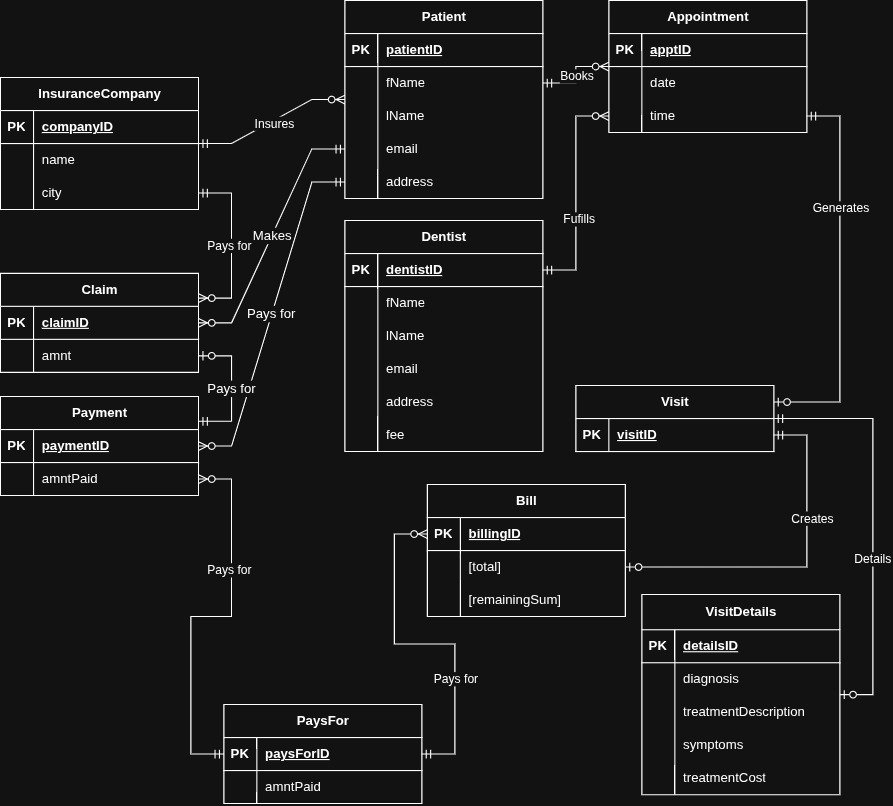
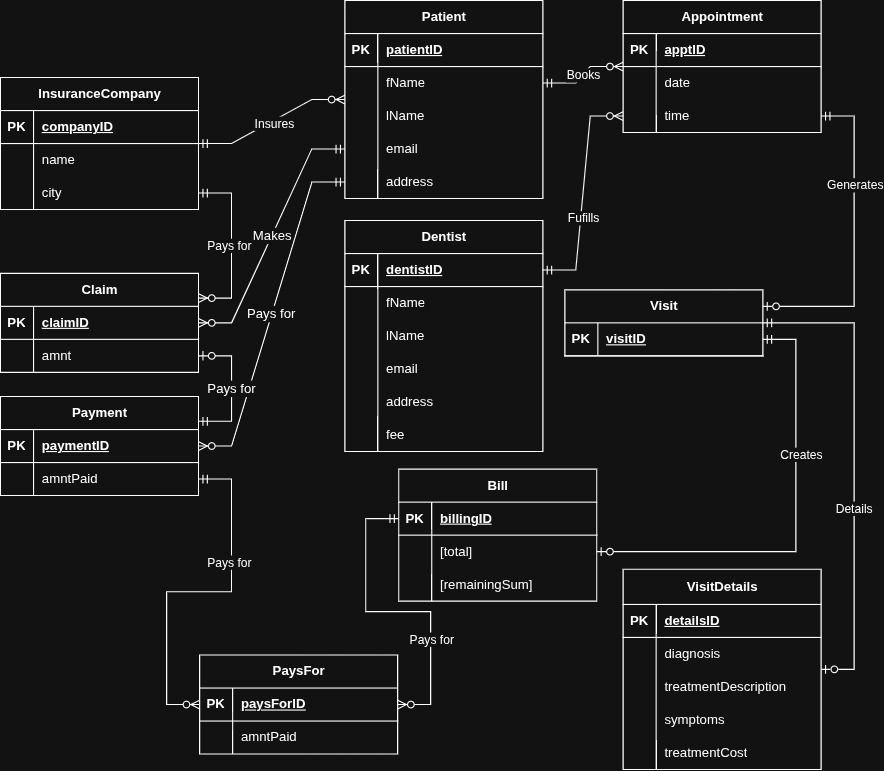
normalization detailed + made normalized er diagram

Changed region(s): [[0.0, 0.0, 1.0, 1.0], [0.733, 0.4669, 0.7941, 0.5292], [0.733, 0.3735, 0.7941, 0.4047]]

diff --git a/Deliverable2/Report.md b/Deliverable2/Report.md
@@ -16,7 +16,23 @@
 ![Fig 2. Revised Logical Schema](../Deliverable1/Revision/lsRevision.jpg) TODO add image when received from Kiavash
 
 ## Normalization Details
-1. 
+### Current Normalization Analysis
+1. Already in 1NF
+   1. All records are unqiue
+   2. All columns contain only atomic values
+2. Already in 2NF
+   1. No composite keys; No partial dependancies
+3. Not in 3NF
+   1. Contains one transitive dependency
+
+### Solution
+A transitive dependency is present on *VisitDetails*, where `treatmentCost` is dependent entirely and solely on `treatmentDescription`. To solve this, we will rename *VisitDetails* to *Treatment* and split `symptoms` and `diagnosis` off into *Visit*. A foreign key, `treatmentID`, will be created in *Visit* to link the tables. The relationship will remain unchanged as each visit will have a unique, specific to the conditions of the patient.
+
+***Fig 3. Normalized Entity Relationship Diagram***
+![Fig 3. Normalized Entity Relationship Diagram](erDiagram3NF.jpg)
+
+***Fig 4. Normalized Logical Schema***
+![Fig 4. Normalized Entity Relationship Diagram](ls3NF.jpg) TODO add image when normalization complete
 
 ## Difficulties and Challenges
 
